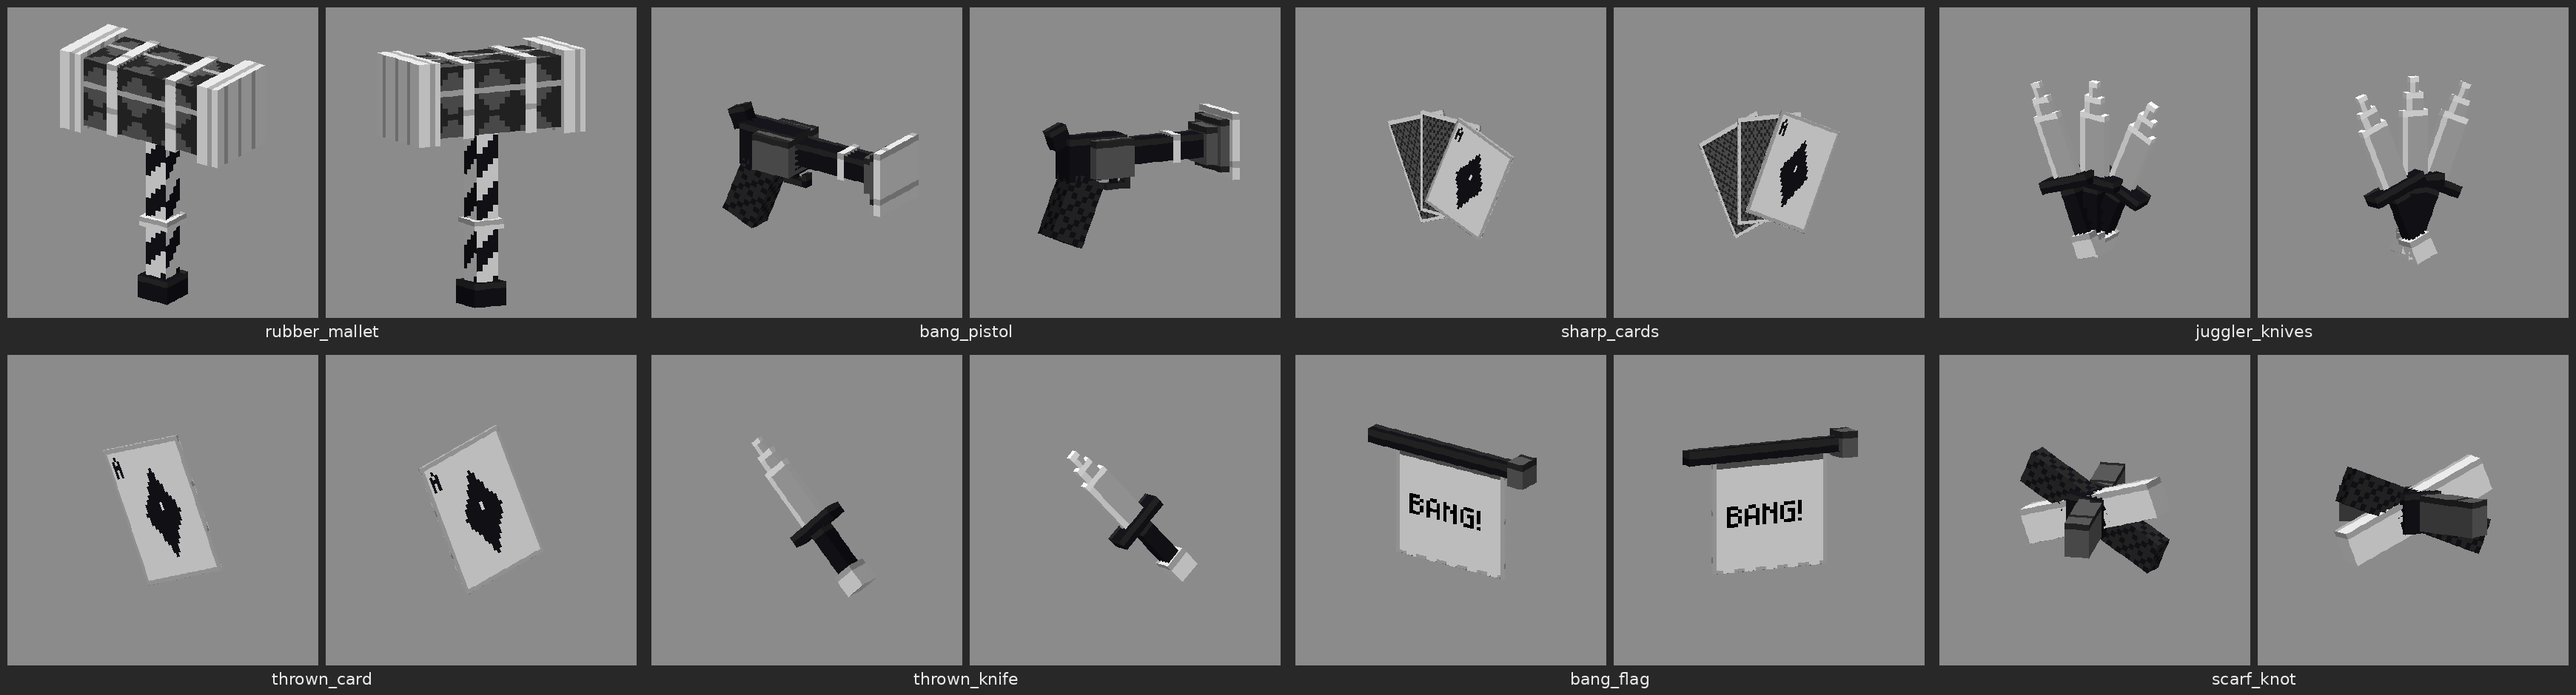
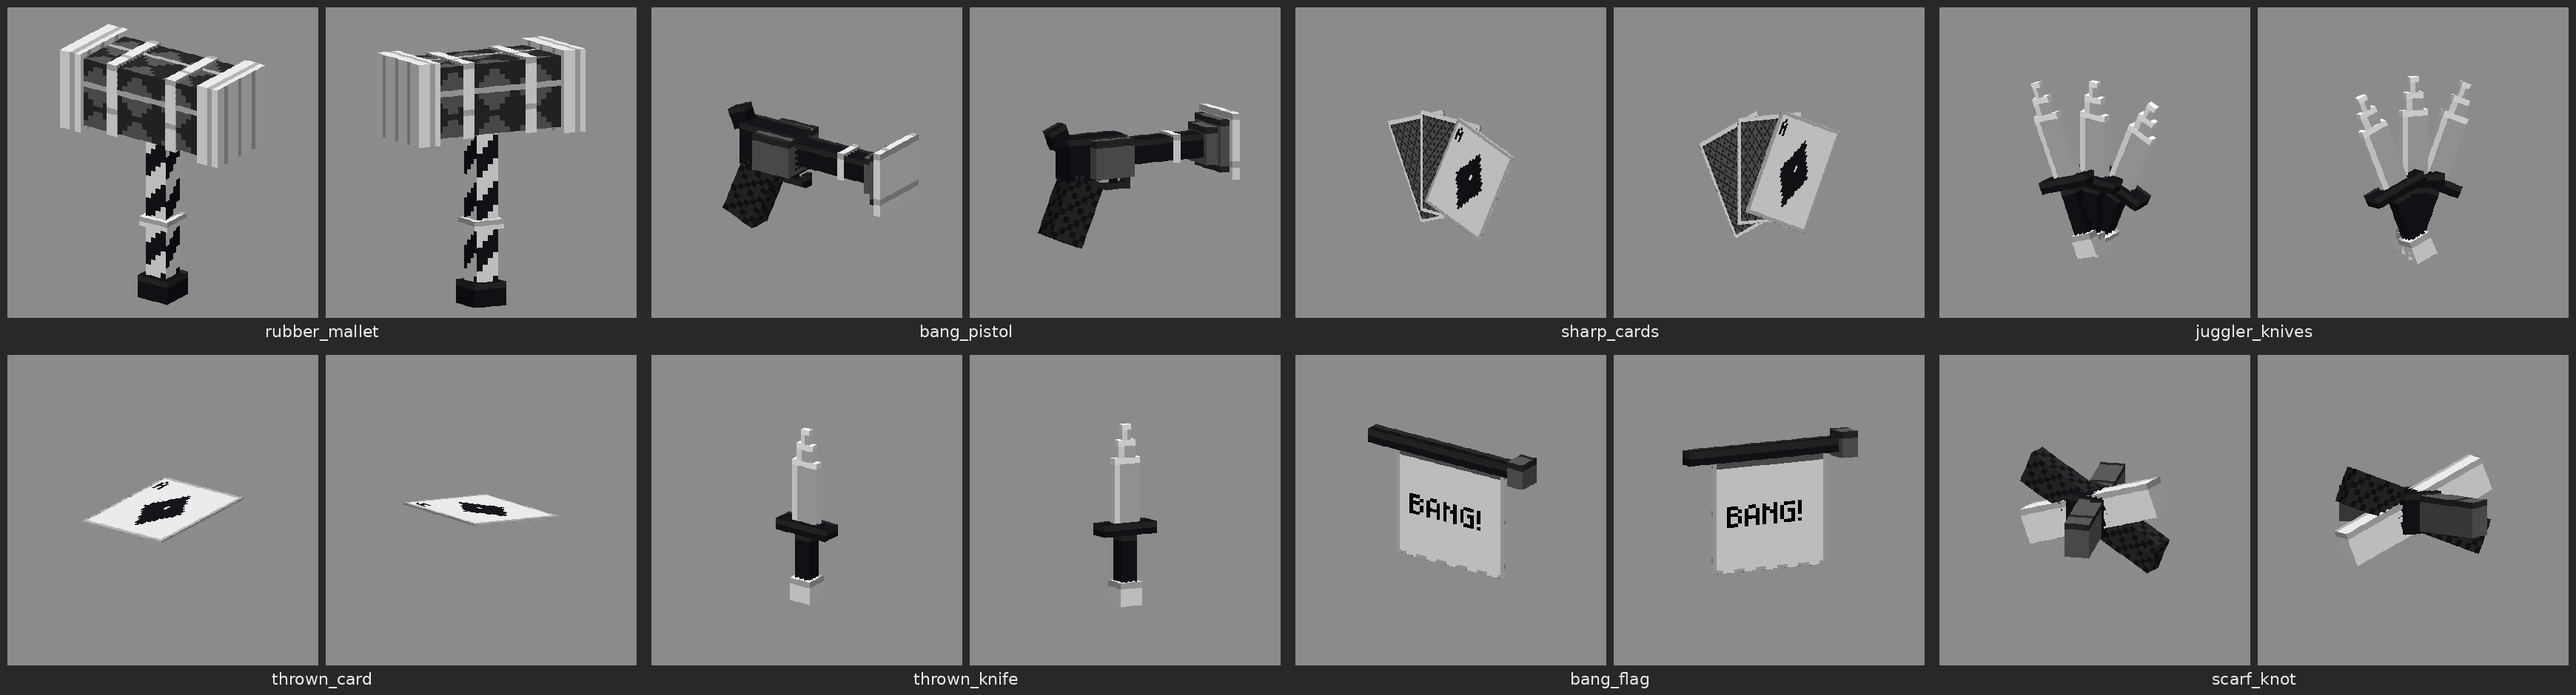
Los proyectiles apuntan hacia donde vuelan
Antes se dibujaban siempre mirando a la cámara y parecían ir en diagonal.
Ahora se orientan como las flechas: el cuchillo va con la punta delante,
la banderita con la varilla delante y el naipe gira plano.

Claude-Session: https://claude.ai/code/session_01AuTKdfP7wCP9Dt2hZTmoa7

diff --git a/src/main/java/com/jester/jestertricks/client/OrientedItemRenderer.java b/src/main/java/com/jester/jestertricks/client/OrientedItemRenderer.java
@@ -1,0 +1,67 @@
+package com.jester.jestertricks.client;
+
+import com.mojang.blaze3d.vertex.PoseStack;
+import com.mojang.math.Axis;
+import net.minecraft.client.renderer.MultiBufferSource;
+import net.minecraft.client.renderer.entity.EntityRenderer;
+import net.minecraft.client.renderer.entity.EntityRendererProvider;
+import net.minecraft.client.renderer.entity.ItemRenderer;
+import net.minecraft.client.renderer.texture.OverlayTexture;
+import net.minecraft.client.renderer.texture.TextureAtlas;
+import net.minecraft.resources.ResourceLocation;
+import net.minecraft.util.Mth;
+import net.minecraft.world.entity.Entity;
+import net.minecraft.world.entity.projectile.ItemSupplier;
+import net.minecraft.world.item.ItemDisplayContext;
+
+/**
+ * Dibuja el modelo 3D del proyectil apuntando hacia donde vuela (como una flecha),
+ * en lugar de girarlo siempre hacia la cámara.
+ * El modelo debe apuntar hacia +X; {@code modelToX} corrige modelos hechos en vertical.
+ */
+public class OrientedItemRenderer<T extends Entity & ItemSupplier> extends EntityRenderer<T> {
+    public enum Spin { NONE, FLAT, TUMBLE }
+
+    private final ItemRenderer itemRenderer;
+    private final float scale;
+    private final float modelToX;
+    private final Spin spin;
+
+    public OrientedItemRenderer(EntityRendererProvider.Context ctx, float scale, float modelToX, Spin spin) {
+        super(ctx);
+        this.itemRenderer = ctx.getItemRenderer();
+        this.scale = scale;
+        this.modelToX = modelToX;
+        this.spin = spin;
+    }
+
+    @Override
+    public void render(T entity, float yaw, float partialTicks, PoseStack pose, MultiBufferSource buffers, int light) {
+        // igual que el renderizador vanilla: no tapar la vista justo al lanzarlo
+        if (entity.tickCount < 2 && this.entityRenderDispatcher.camera.getEntity().distanceToSqr(entity) < 12.25) {
+            return;
+        }
+        pose.pushPose();
+        pose.mulPose(Axis.YP.rotationDegrees(Mth.lerp(partialTicks, entity.yRotO, entity.getYRot()) - 90.0F));
+        pose.mulPose(Axis.ZP.rotationDegrees(Mth.lerp(partialTicks, entity.xRotO, entity.getXRot())));
+        float age = entity.tickCount + partialTicks;
+        if (spin == Spin.FLAT) {
+            pose.mulPose(Axis.YP.rotationDegrees(age * 40.0F));
+        } else if (spin == Spin.TUMBLE) {
+            pose.mulPose(Axis.ZP.rotationDegrees(-age * 30.0F));
+        }
+        if (modelToX != 0.0F) {
+            pose.mulPose(Axis.ZP.rotationDegrees(modelToX));
+        }
+        pose.scale(scale, scale, scale);
+        itemRenderer.renderStatic(entity.getItem(), ItemDisplayContext.NONE, light, OverlayTexture.NO_OVERLAY,
+                pose, buffers, entity.level(), entity.getId());
+        pose.popPose();
+        super.render(entity, yaw, partialTicks, pose, buffers, light);
+    }
+
+    @Override
+    public ResourceLocation getTextureLocation(T entity) {
+        return TextureAtlas.LOCATION_BLOCKS;
+    }
+}

diff --git a/src/main/java/com/jester/jestertricks/client/ClientSetup.java b/src/main/java/com/jester/jestertricks/client/ClientSetup.java
@@ -3,7 +3,6 @@ package com.jester.jestertricks.client;
 import com.jester.jestertricks.JesterTricks;
 import com.jester.jestertricks.registry.ModEntities;
 import net.minecraft.client.renderer.entity.NoopRenderer;
-import net.minecraft.client.renderer.entity.ThrownItemRenderer;
 import net.minecraftforge.api.distmarker.Dist;
 import net.minecraftforge.client.event.EntityRenderersEvent;
 import net.minecraftforge.eventbus.api.SubscribeEvent;
@@ -15,10 +14,15 @@ public final class ClientSetup {
 
     @SubscribeEvent
     public static void registerRenderers(EntityRenderersEvent.RegisterRenderers event) {
-        event.registerEntityRenderer(ModEntities.THROWN_CARD.get(), ThrownItemRenderer::new);
-        event.registerEntityRenderer(ModEntities.THROWN_KNIFE.get(), ctx -> new ThrownItemRenderer<>(ctx, 1.25F, false));
-        event.registerEntityRenderer(ModEntities.BANG_FLAG.get(), ctx -> new ThrownItemRenderer<>(ctx, 1.2F, false));
-        event.registerEntityRenderer(ModEntities.SCARF_HOOK.get(), ThrownItemRenderer::new);
+        // los proyectiles apuntan hacia donde vuelan (como las flechas)
+        event.registerEntityRenderer(ModEntities.THROWN_CARD.get(),
+                ctx -> new OrientedItemRenderer<>(ctx, 0.9F, 0.0F, OrientedItemRenderer.Spin.FLAT));
+        event.registerEntityRenderer(ModEntities.THROWN_KNIFE.get(),
+                ctx -> new OrientedItemRenderer<>(ctx, 1.0F, -90.0F, OrientedItemRenderer.Spin.NONE));
+        event.registerEntityRenderer(ModEntities.BANG_FLAG.get(),
+                ctx -> new OrientedItemRenderer<>(ctx, 1.0F, 0.0F, OrientedItemRenderer.Spin.NONE));
+        event.registerEntityRenderer(ModEntities.SCARF_HOOK.get(),
+                ctx -> new OrientedItemRenderer<>(ctx, 0.8F, 0.0F, OrientedItemRenderer.Spin.TUMBLE));
         event.registerEntityRenderer(ModEntities.RIFT.get(), NoopRenderer::new);
         event.registerEntityRenderer(ModEntities.JESTER_CLONE.get(), JesterCloneRenderer::new);
     }
